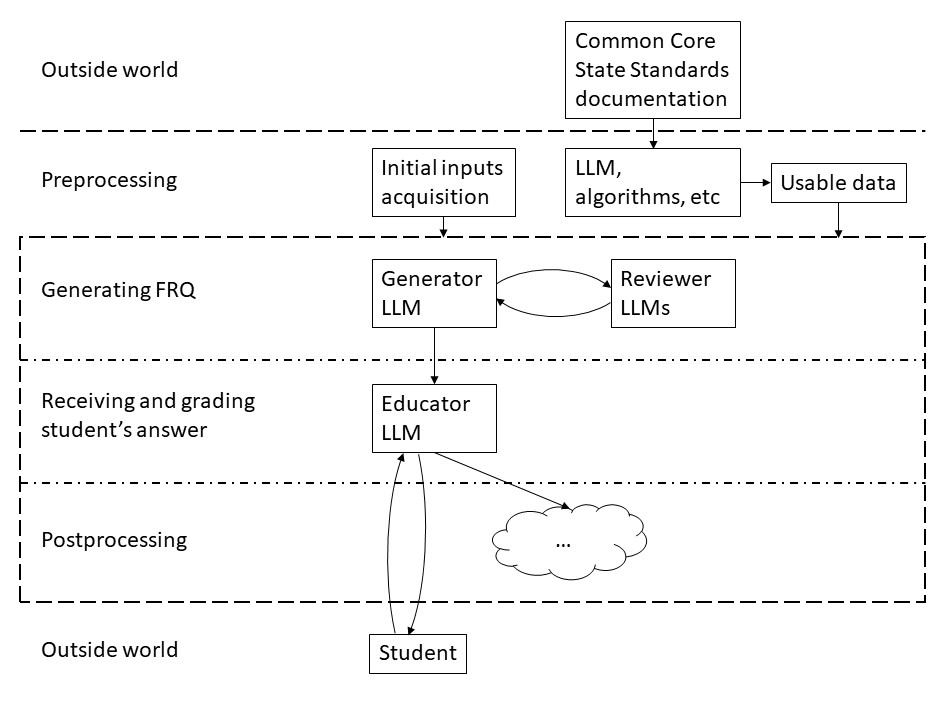
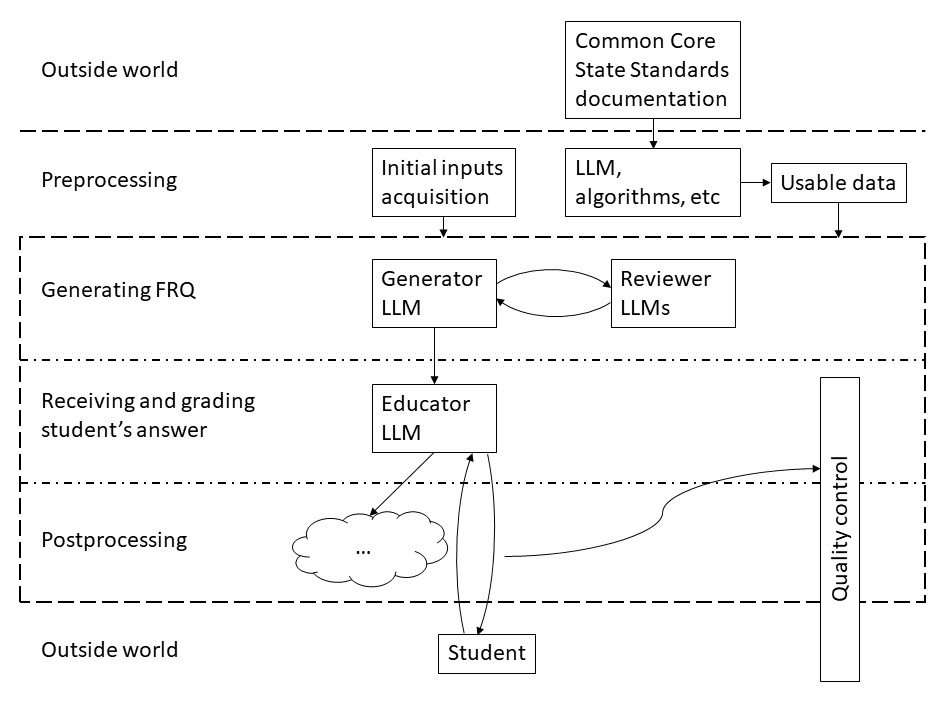
Quality control updates

diff --git a/main.py b/main.py
@@ -1,8 +1,10 @@
+import statistics
 import time
 import configparser
 
 from langchain.chat_models import ChatOpenAI
 
+import quality_checker
 import question_generator
 import question_reviewer
 import reviewer
@@ -17,7 +19,7 @@ topic = config["DEFAULTS"]["topic"]
 
 my_chatLLM = ChatOpenAI(openai_api_key=config["API"]["OpenAI_API_key"], temperature=1.2)
 
-conversationQuestionGenerator = question_generator.create(llm=my_chatLLM, audience=audience, topic=topic, educational_context=educational_context)
+conversationQuestionGenerator = question_generator.create(llm=my_chatLLM, audience=audience, topic="computers", educational_context=educational_context)
 review_result = ""
 loop_counter = 0
 REVIEW_LOOPS_MAX = 3
@@ -26,18 +28,23 @@ while True:
     print(review_result)
     question = conversationQuestionGenerator({"question": review_result})
     print("\nProposed question\n", 10*"-", "\n", question["text"], "\n", 10*"-", "\n")
-    reviewers = {"yes": 0, "no": 0, "explanations": []}
+    reviewers = {"yes": 0, "no": 0, "explanations": [], "scores": []}
     for i in range(3):
         time.sleep(15)  # Delay due to limitations of a free OpenAI API account
         review = reviewer.evaluate(llm=my_chatLLM, educational_context=educational_context, audience=audience, topic=topic, question=question["text"])
-        print("Reviewer ", str(i+1))
+        print(10*"-", "\nReviewer ", str(i+1))
         print(review)
-        if "NO" in review:
-            reviewers["no"] += 1
-            reviewers["explanations"].append(review)
-        else:
-            reviewers["yes"] += 1
-    if reviewers["no"] >= reviewers["yes"]:
+        score = int(review.strip().split()[0][0])
+        if score:
+            reviewers["scores"].append(score)
+            if score < 4:
+                reviewers["no"] += 1
+                reviewers["explanations"].append(review)
+            else:
+                reviewers["yes"] += 1
+    mean_score = statistics.mean([s for s in reviewers["scores"]])
+    print(10*"-", "\nAverage question score: ", mean_score)
+    if mean_score <= 4:
         review_result = "Create new introduction, context and question taking into account following comments to the previous question you prepared:\n"
         for i, explanation in enumerate(reviewers["explanations"]):
             review_result += str(i+1)+". '"+explanation+"'\n"
@@ -61,3 +68,6 @@ print(10*"-", "\n", "Student\n", answerStudent["text"])
 time.sleep(15)  # Delay due to limitations of a free OpenAI API account
 answerEducator = chainEducator.run(answerStudent["text"])
 print(10*"-", "\n", "Educator\n", answerEducator)
+
+response_quality = quality_checker.evaluate(llm=my_chatLLM, educational_context=educational_context, audience=audience, question=answerEducator, user_input=answerStudent["text"])
+print(10*"-", "\nQuality of a response: ", response_quality)

diff --git a/reviewer.py b/reviewer.py
@@ -7,15 +7,15 @@ from langchain.chains import LLMChain
 
 
 def evaluate(llm, educational_context, audience, topic, question):
-    template = ("You are a harsh reviewer of educational free response questions. You will review a question in a following context:\n"
-                f"1. The audience for the question should be: {audience}.\n"
-                f"2. The question should be connected to the topic: {topic}.\n"
-                f"3. The educational context should be: {educational_context}.\n"
+    template = ("You are a harsh and meticulous reviewer of educational free response questions. You will review a question in a following context:\n"
+                f"1. The question should be connected to the topic: {topic}.\n"
+                f"2. The educational context should be: {educational_context}.\n"
+                f"3. The audience for the question should be: {audience}.\n"
                 "4. The created question should consisting of two parts. First part should "
                 "be an introduction and context for the topic of a question. Second part should be a question "
                 "itself. The question should be highly relevant, connected to the introduction and go beyond just facts.\n\n"
                 "Check if question relates to each part of the given context. If it does not regard it as a bad question. Work one step at a time.\n"
-                "If you think the question is good and is of high standards say 'OK'. Otherwise say 'NO'. Argument your answer."
+                "Rate the quality of the question on a scale of 1-5 where 1 is the worst and 5 is the best. Provide your score as a single numerical without any additional text as a first thing you say and follow it with a new line. Argument your answer."
                 ).format(audience=audience, educational_context=educational_context, topic=topic)
 
     system_message_prompt = SystemMessagePromptTemplate.from_template(template)

diff --git a/quality_checker.py b/quality_checker.py
@@ -1,0 +1,31 @@
+from langchain.prompts.chat import (
+    ChatPromptTemplate,
+    SystemMessagePromptTemplate,
+    HumanMessagePromptTemplate,
+)
+from langchain.chains import LLMChain
+
+
+def evaluate(llm, educational_context, audience, user_input, question):
+    template = ("You are a harsh reviewer. You will review a quality of a response given to the user in a following context:\n"
+                f"1. The audience for the response should be: {audience}.\n"
+                f"2. The educational context should be: {educational_context}.\n"
+                f"3. The user's input is as follows: {user_input}"
+                "4. The response should describe positive and negative values of a user's input and rate it on a regular US academic "
+                "grading scale (A-F).\n\n"
+                "Check if response relates to each part of the given context. If it does not, regard it as a bad question. Work one step at a time.\n"
+                "Rate the quality of the response on a scale of 1-5 where 1 is the worst and 5 is the best. Provide only your score as a numerical without any other information. Remember to provide only a numerical score without anything else!"
+                ).format(audience=audience, educational_context=educational_context, user_input=user_input)
+
+    system_message_prompt = SystemMessagePromptTemplate.from_template(template)
+    human_template = "{text}"
+    human_message_prompt = HumanMessagePromptTemplate.from_template(human_template)
+
+    chat_prompt = ChatPromptTemplate.from_messages([system_message_prompt, human_message_prompt])
+    chain = LLMChain(
+        llm=llm,
+        prompt=chat_prompt
+    )
+    answer = chain.run(question)
+
+    return answer

diff --git a/question_generator.py b/question_generator.py
@@ -7,8 +7,8 @@ from langchain.prompts import ChatPromptTemplate, SystemMessagePromptTemplate, M
 def create(llm, audience, topic, educational_context):
     template = ("You are an educational questions' creator. You will make a free response question.\n\n"
                 f"Your audience will be: {audience}.\n"
-                f"The question should be connected to the following topic: {topic}.\n"
-                f"The educational context will be: {educational_context}.\n\n"
+                f"The educational context will be: {educational_context}.\n"
+                f"The question should be connected to the following topic: {topic}.\n\n"
                 "The created question should consisting of two parts. First part will "
                 "be an introduction and context for the topic of a question. Second part will be a question "
                 "itself. The question should be highly relevant, connected to the introduction you gave and go beyond just facts.\n\n"

diff --git a/README.md b/README.md
@@ -2,9 +2,9 @@
 
 A concept system that uses LLMs to generate free response questions that test writing skills. Answer to the generated question is than graded by LLM.
 
-![Diagram of the system](C:\Users\mikol\PycharmProjects\LLM_test\diagram.jpg)
+![Diagram of the system](diagram.jpg)
 
-Each LLM role is coded in separate file.
+Each LLM role is coded in a separate file.
 
 API key should be given in a main.ini file
 
